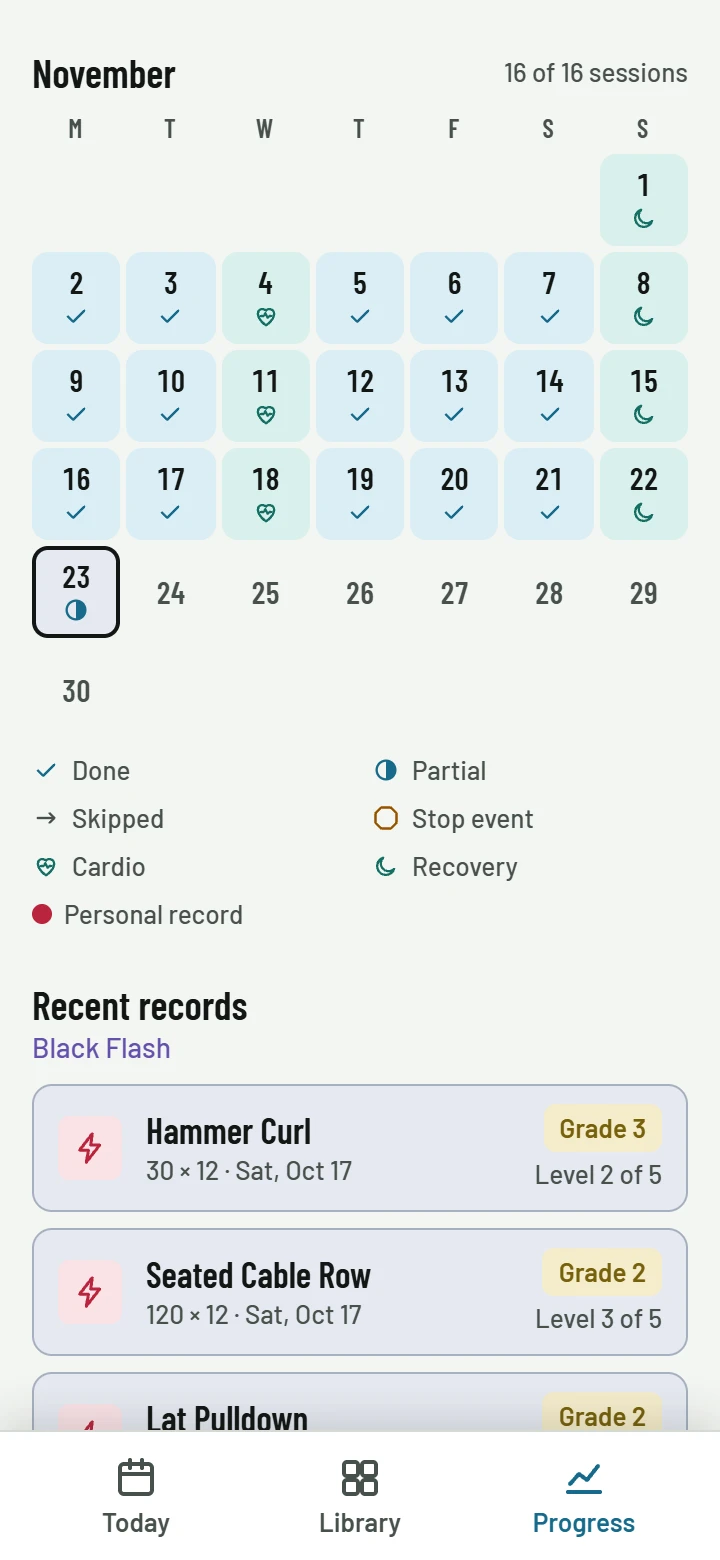
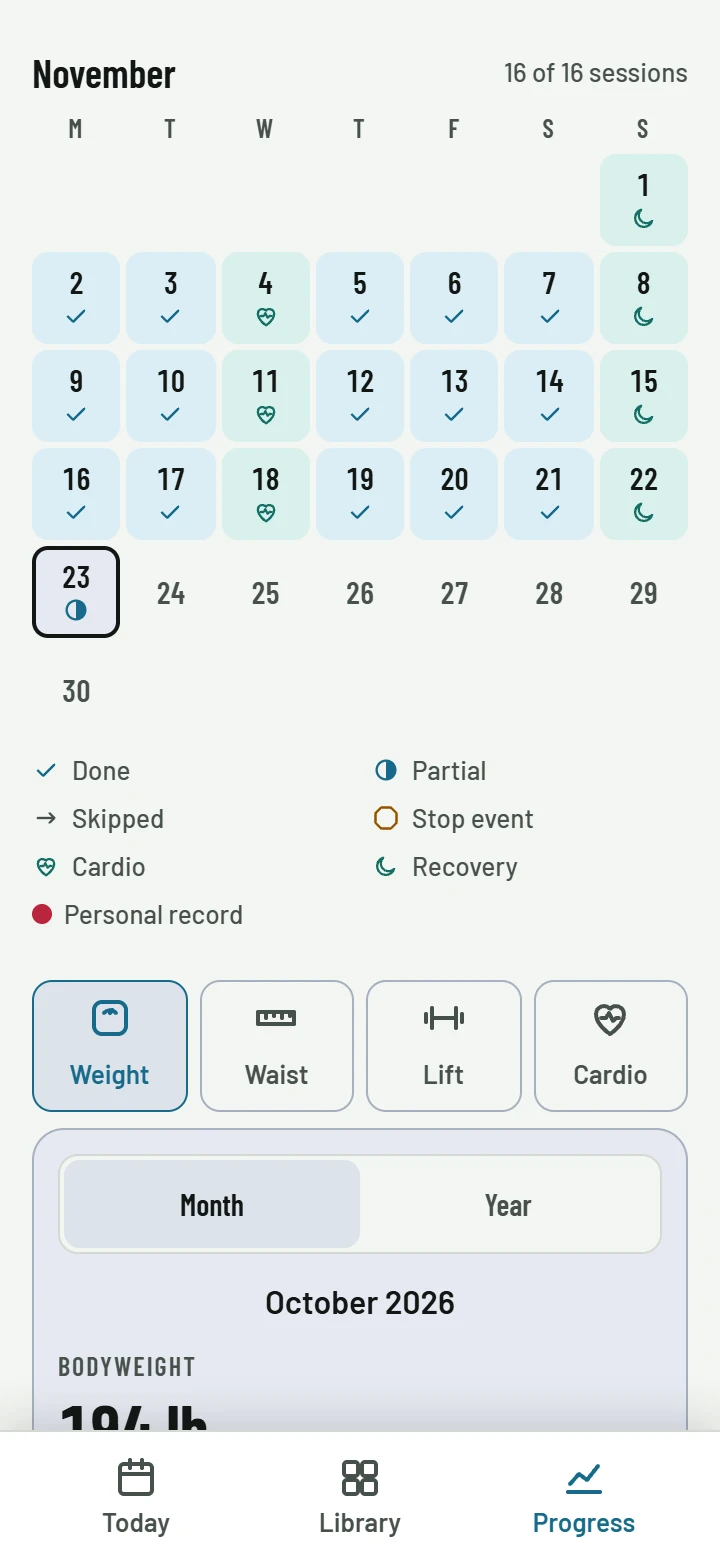
Refresh the README's Progress screenshots for the new order
npm run screenshots from the demo data: progress (this week: sessions,
cardio, sets per muscle group, the top of the calendar), progress-chart
(the Weight chart with its latest-value headline, then records) and
progress-calendar (the calendar and legend, then the tabs). Captions and
alt texts now say what each image shows. today-plum-dark came out with
only render noise and is left as it was.

diff --git a/README.md b/README.md
@@ -15,9 +15,9 @@ A self-hosted workout tracker for training hard within injury limits. FastAPI + 
     <td align="center" width="33%"><a href="docs/screenshots/library.webp"><img src="docs/screenshots/library.webp" width="240" alt="Exercise library with search, filters and the Back region expanded to Lats, with grade badges"></a><br><b>Exercise library</b><br><sub>By body region and muscle</sub></td>
   </tr>
   <tr>
-    <td align="center" width="33%"><a href="docs/screenshots/progress.webp"><img src="docs/screenshots/progress.webp" width="240" alt="Progress: 1 of 5 sessions this week, 150 of 345 cardio minutes, and the bodyweight chart"></a><br><b>Progress</b><br><sub>Sessions, cardio and bodyweight</sub></td>
-    <td align="center" width="33%"><a href="docs/screenshots/progress-chart.webp"><img src="docs/screenshots/progress-chart.webp" width="240" alt="Bodyweight chart for October: the latest weight as the headline, its change from first to last, a dashed goal line at 185, and sets per muscle group this week"></a><br><b>Bodyweight and sets</b><br><sub>Goal line, sets per muscle group</sub></td>
-    <td align="center" width="33%"><a href="docs/screenshots/progress-calendar.webp"><img src="docs/screenshots/progress-calendar.webp" width="240" alt="November calendar with done, cardio and recovery days, the legend, and a recent personal record"></a><br><b>Calendar and records</b><br><sub>Done, cardio, recovery and PRs</sub></td>
+    <td align="center" width="33%"><a href="docs/screenshots/progress.webp"><img src="docs/screenshots/progress.webp" width="240" alt="Progress: 1 of 5 sessions this week, 150 of 345 cardio minutes, sets per muscle group this week right under them, and the top of the November calendar"></a><br><b>Progress</b><br><sub>This week: sessions, cardio, sets per muscle</sub></td>
+    <td align="center" width="33%"><a href="docs/screenshots/progress-chart.webp"><img src="docs/screenshots/progress-chart.webp" width="240" alt="Bodyweight chart for October: the latest weight, 194 lb, as the headline, down 2.4 lb from first to last, a dashed goal line at 185, then recent personal records"></a><br><b>Bodyweight and records</b><br><sub>Latest value, goal line, recent PRs</sub></td>
+    <td align="center" width="33%"><a href="docs/screenshots/progress-calendar.webp"><img src="docs/screenshots/progress-calendar.webp" width="240" alt="November calendar with done, cardio, recovery and partial days and the legend, then the Weight, Waist, Lift and Cardio tabs"></a><br><b>Calendar</b><br><sub>Done, cardio, recovery; then the tabs</sub></td>
   </tr>
 </table>
 

diff --git a/CHANGELOG.md b/CHANGELOG.md
@@ -18,6 +18,7 @@ change how things work.
 - Progress is reordered: this week first (sessions and cardio, then sets per muscle group right
   under them, then workout time), then the calendar, then the Weight / Waist / Lift / Cardio
   tabs, and records last.
+- The README's Progress screenshots show the new order.
 
 ### Removed
 - Progress › Lift no longer has the Pounds / % gain switch or its chart: it was crowded and the
